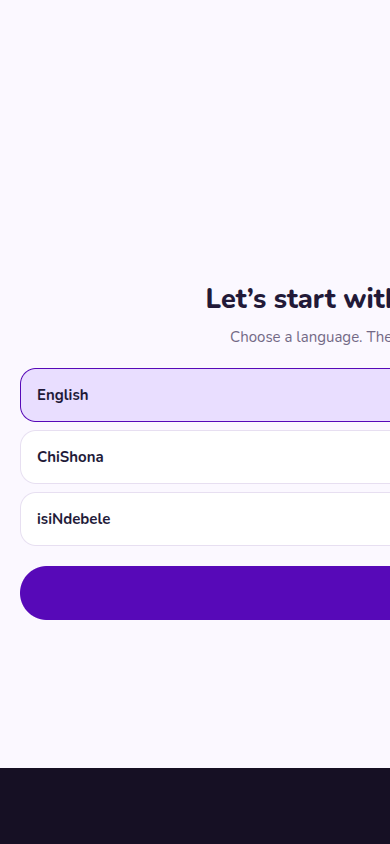
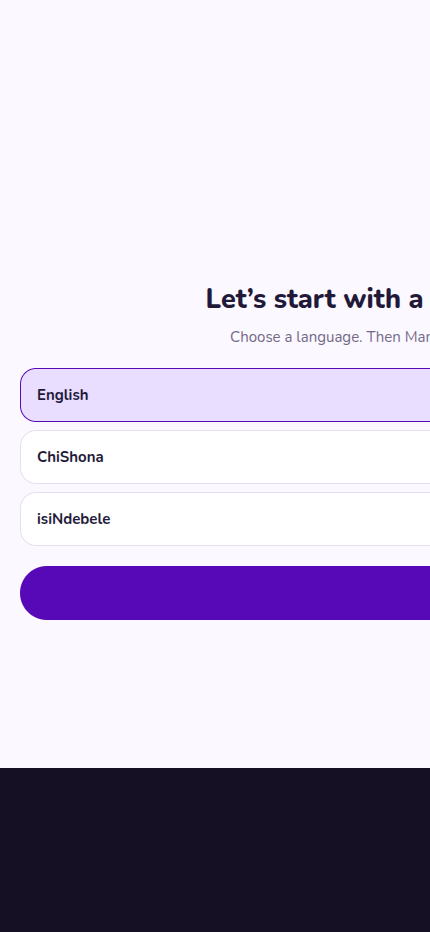
feat: enhance language detection and support for Shona and Ndebele, update responses and messaging

diff --git a/utils/chatbot.ts b/utils/chatbot.ts
@@ -74,13 +74,35 @@ function findLanguagePrefix(message: string) {
   return null;
 }
 
+function detectLanguage(message: string, preferredLanguage: AppLanguage) {
+  const normalized = normalizeMessage(message);
+  const tokens = new Set(normalized.split(' '));
+  const scores = languages.map((language) => ({
+    language,
+    score: chatbotIntents.languageIndicators[language].reduce((score, indicator) => {
+      const matches = indicator.includes(' ')
+        ? ` ${normalized} `.includes(` ${indicator} `)
+        : tokens.has(indicator);
+      return matches ? score + indicator.split(' ').length + 1 : score;
+    }, 0),
+  }));
+  const bestScore = Math.max(...scores.map(({ score }) => score));
+  if (bestScore === 0) return null;
+
+  const bestLanguages = scores
+    .filter(({ score }) => score === bestScore)
+    .map(({ language }) => language);
+  if (bestLanguages.includes(preferredLanguage)) return preferredLanguage;
+  return bestLanguages.length === 1 ? bestLanguages[0] : null;
+}
+
 export function classifyOfflineQuestion(
   message: string,
   preferredLanguage: AppLanguage = 'en',
 ) {
-  const normalized = normalizeMessage(message);
-  const prefixed = findLanguagePrefix(normalized);
-  const query = prefixed?.message ?? normalized;
+  const prefixed = findLanguagePrefix(message.trim().toLowerCase());
+  const query = normalizeMessage(prefixed?.message ?? message);
+  const inferredLanguage = prefixed?.language ?? detectLanguage(query, preferredLanguage);
   const urgentIntent = chatbotIntents.intents.find(
     (intent) => intent.id === 'urgent_symptoms',
   );
@@ -102,7 +124,7 @@ export function classifyOfflineQuestion(
     return {
       intent: 'urgent_symptoms',
       language:
-        prefixed?.language ??
+        inferredLanguage ??
         (urgentLanguages.includes(preferredLanguage) ? preferredLanguage : urgentLanguages[0]),
       message: query,
     };
@@ -112,7 +134,7 @@ export function classifyOfflineQuestion(
   if (queryFrequencies.size === 0) {
     return {
       intent: 'fallback',
-      language: prefixed?.language ?? preferredLanguage,
+      language: inferredLanguage ?? preferredLanguage,
       message: query,
     };
   }
@@ -170,7 +192,7 @@ export function classifyOfflineQuestion(
     (language) => languageScores[language] === bestLanguageScore,
   );
   const detectedLanguage =
-    prefixed?.language ??
+    inferredLanguage ??
     (bestIntentScore === 0
       ? preferredLanguage
       : tiedLanguages.includes(preferredLanguage)
@@ -194,8 +216,7 @@ export function getOfflineReply(
   nextReminder: Reminder | undefined,
   language: AppLanguage,
 ) {
-  const { intent } = classifyOfflineQuestion(message, language);
-  const responseLanguage = language;
+  const { intent, language: responseLanguage } = classifyOfflineQuestion(message, language);
   let responseId = intent;
   const values: Record<string, string> = {};
 

diff --git a/utils/i18n.ts b/utils/i18n.ts
@@ -134,8 +134,8 @@ const translations: Record<Exclude<AppLanguage, 'en'>, Record<string, string>> =
       'Ruzivo rweprofile yako runogara pafoni yako. Kana kupatsanurwa kwemubvunzo neAI yepamhepo kuchishandiswa, mubvunzo wako nenhaurirano dzichangobva kuitika zvinotumirwa kuPerplexity kuburikidza neOpenRouter; mupi webasa anogona kuzvishandisa kana kuzvichengeta. Usaisa mazita kana mashoko ekukuzivisa.',
     'In-app chat works offline. WhatsApp and SMS need mobile network access, and their messages are handled by those providers.':
       'Nhaurirano iri muapp ino inoshanda isina internet. WhatsApp neSMS zvinoda network yefoni, uye mashoko zvinopfuura kumakambani iwayo.',
-    'Online AI is unavailable; this answer used on-device guidance.':
-      'AI iri online haisi kuwanikwa; mhinduro iyi yashandisa mazano ari pafoni.',
+    'Online AI did not return a clear match; this answer used MamaBot guidance.':
+      'AI yepamhepo haina kuwana mubvunzo wakafanana zvakajeka; mhinduro iyi yashandisa mazano aMamaBot ari pafoni.',
     'Online AI classified this question; showing MamaBot guidance.':
       'AI yepamhepo yakaronga mubvunzo uyu; MamaBot iri kuratidza mazano ayo.',
     'Safety-critical guidance was answered locally.':
@@ -593,8 +593,8 @@ const translations: Record<Exclude<AppLanguage, 'en'>, Record<string, string>> =
       'UMamaBot usebenza engelantanethi. Nxa ukhetha i-AI eku-inthanethi, umbuzo wakho uthunyelwa kuseva kaMamaBot le-OpenRouter. Ungafaki ibizo lakho kumbe imininingwane engakwazisa. UMamaBot kasisiyo ingcitshi yezempilakahle.',
     'In-app chat works offline. WhatsApp and SMS need mobile network access, and their messages are handled by those providers.':
       'Ingxoxo eku-app isebenza ingela-inthanethi. I-WhatsApp le-SMS kudinga inethiwekhi yefoni, lemilayezo iphathwa yizinkampani lezo.',
-    'Online AI is unavailable; this answer used on-device guidance.':
-      'I-AI eku-inthanethi ayitholakali; impendulo le isebenzise ulwazi olusefonini.',
+    'Online AI did not return a clear match; this answer used MamaBot guidance.':
+      'I-AI eku-inthanethi yehlulekile ukuthola umbuzo ohambelanayo; impendulo le isebenzise izeluleko zikaMamaBot ezisefonini.',
     'Safety-critical guidance was answered locally.':
       'Ngenxa yokuphepha, isiqondiso esiqakathekileyo siphendulwe yifoni.',
     'Could not reach MamaBot; this answer used on-device guidance.':

diff --git a/app/(tabs)/chat.tsx b/app/(tabs)/chat.tsx
@@ -144,13 +144,17 @@ export default function ChatScreen() {
         : t('MamaBot is replying…'),
     );
     try {
-      let reply = getLocalReply(replyMessage, week, nextReminder, data.profile.language);
+      const isSuggestedPrompt = message !== replyMessage;
+      const localQuestion = isSuggestedPrompt
+        ? `${data.profile.language}: ${replyMessage}`
+        : replyMessage;
+      let reply = getLocalReply(localQuestion, week, nextReminder, data.profile.language);
       if (isOnlineChatConfigured && !isUrgent) {
         try {
           const onlineResult = await getOnlineReply(replyMessage.trim(), data.profile.language, {
             pregnancyWeek: week,
             recentMessages,
-          });
+          }, isSuggestedPrompt);
           if (onlineResult.mode === 'online') {
             reply = onlineResult.reply;
             setStatus(t('Online AI classified this question; showing MamaBot guidance.'));
@@ -158,7 +162,7 @@ export default function ChatScreen() {
             reply = onlineResult.reply;
             setStatus(t('Safety-critical guidance was answered locally.'));
           } else {
-            setStatus(t('Online AI is unavailable; this answer used on-device guidance.'));
+            setStatus(t('Online AI did not return a clear match; this answer used MamaBot guidance.'));
           }
         } catch {
           setStatus(t('Could not reach MamaBot; this answer used on-device guidance.'));

diff --git a/utils/ndebele.ts b/utils/ndebele.ts
@@ -124,8 +124,8 @@ export const ndebeleTranslations: Record<string, string> = {
   'Send by SMS': 'Thumela nge-SMS',
   'Could not open {channel}. Check that it is available on your device.':
     'Yehlulekile ukuvula {channel}. Hlola ukuthi iyatholakala yini efonini yakho.',
-  'Online AI is unavailable; this answer used on-device guidance.':
-    'I-AI eku-inthanethi ayitholakali; impendulo le isebenzise ulwazi olusefonini.',
+  'Online AI did not return a clear match; this answer used MamaBot guidance.':
+    'I-AI eku-inthanethi yehlulekile ukuthola umbuzo ohambelanayo; impendulo le isebenzise izeluleko zikaMamaBot ezisefonini.',
   'Online AI classified this question; showing MamaBot guidance.':
     'I-AI eku-inthanethi ihlukanise umbuzo lo; uMamaBot utshengisa izeluleko zakhe.',
   'Safety-critical guidance was answered locally.':

diff --git a/utils/online-chatbot.ts b/utils/online-chatbot.ts
@@ -20,6 +20,7 @@ export async function getOnlineReply(
   message: string,
   language: AppLanguage,
   context: OnlineChatContext,
+  forceLanguage = false,
 ): Promise<OnlineReply> {
   if (!isOnlineChatConfigured) {
     throw new Error('Online MamaBot service is not configured.');
@@ -34,6 +35,7 @@ export async function getOnlineReply(
       body: JSON.stringify({
         message,
         language,
+        force_language: forceLanguage,
         use_online: true,
         context: {
           pregnancy_week: context.pregnancyWeek,

diff --git a/backend/mamabot/chatbot.py b/backend/mamabot/chatbot.py
@@ -19,7 +19,12 @@ class Intent:
     patterns: dict[str, tuple[str, ...]]
 
 
-def _read_catalog() -> tuple[list[Intent], dict[str, dict[str, str]], dict[str, tuple[str, ...]]]:
+def _read_catalog() -> tuple[
+    list[Intent],
+    dict[str, dict[str, str]],
+    dict[str, tuple[str, ...]],
+    dict[str, tuple[str, ...]],
+]:
     intents_data: dict[str, Any] = json.loads(
         (SHARED_DIRECTORY / "chatbot-intents.json").read_text(encoding="utf-8")
     )
@@ -49,14 +54,18 @@ def _read_catalog() -> tuple[list[Intent], dict[str, dict[str, str]], dict[str, 
         language: tuple(values)
         for language, values in intents_data["languagePrefixes"].items()
     }
+    indicators = {
+        language: tuple(values)
+        for language, values in intents_data["languageIndicators"].items()
+    }
 
     if "fallback" not in responses or any(intent.response not in responses for intent in intents):
         raise ValueError("The MamaBot intent catalog references a missing response.")
 
-    return intents, responses, prefixes
+    return intents, responses, prefixes, indicators
 
 
-INTENTS, RESPONSES, LANGUAGE_PREFIXES = _read_catalog()
+INTENTS, RESPONSES, LANGUAGE_PREFIXES, LANGUAGE_INDICATORS = _read_catalog()
 IntentClassifier = Callable[[str], tuple[str, str] | None]
 _TOKEN_PATTERN = re.compile(r"[a-z0-9]+")
 _BM25_K1 = 1.2
@@ -102,6 +111,34 @@ def _normalize(message: str) -> str:
     return message.strip().casefold()
 
 
+def _detect_language(message: str, preferred_language: str) -> str | None:
+    normalized = " ".join(_TOKEN_PATTERN.findall(_normalize(message)))
+    tokens = set(normalized.split())
+
+    def matches_indicator(indicator: str) -> bool:
+        if " " in indicator:
+            return f" {indicator} " in f" {normalized} "
+        return indicator in tokens
+
+    scores = {
+        language: sum(
+            len(indicator.split()) + 1
+            for indicator in LANGUAGE_INDICATORS[language]
+            if matches_indicator(indicator)
+        )
+        for language in LANGUAGES
+    }
+    best_score = max(scores.values())
+    if best_score == 0:
+        return None
+    best_languages = [
+        language for language, score in scores.items() if score == best_score
+    ]
+    if preferred_language in best_languages:
+        return preferred_language
+    return best_languages[0] if len(best_languages) == 1 else None
+
+
 def classify_question(
     message: str,
     preferred_language: str = "en",
@@ -119,6 +156,7 @@ def classify_question(
         if explicit_language:
             break
 
+    inferred_language = explicit_language or _detect_language(normalized, preferred)
     urgent_intent = next(intent for intent in INTENTS if intent.id == "urgent_symptoms")
     urgent_languages = {
         language: sum(
@@ -130,7 +168,7 @@ def classify_question(
     }
     if any(urgent_languages.values()):
         best_urgent_score = max(urgent_languages.values())
-        detected_language = explicit_language or next(
+        detected_language = inferred_language or next(
             (
                 language
                 for language in (preferred, *LANGUAGES)
@@ -142,7 +180,7 @@ def classify_question(
 
     query_tokens = Counter(_tokens(normalized))
     if not query_tokens:
-        return "fallback", explicit_language or preferred
+        return "fallback", inferred_language or preferred
 
     intent_language_scores: dict[str, dict[str, float]] = {}
     for intent, _order, language, frequencies in _SEARCH_DOCUMENTS:
@@ -187,14 +225,14 @@ def classify_question(
     )
     best_intent_score = max(intent_language_scores[matched_intent.id].values())
     if best_intent_score <= 0:
-        return "fallback", explicit_language or preferred
+        return "fallback", inferred_language or preferred
 
     language_scores = intent_language_scores[matched_intent.id]
     best_language_score = max(language_scores.values())
     tied_languages = [
         language for language, score in language_scores.items() if score == best_language_score
     ]
-    detected_language = explicit_language or (
+    detected_language = inferred_language or (
         preferred if preferred in tied_languages else tied_languages[0]
     )
     return matched_intent.id, detected_language
@@ -256,7 +294,7 @@ def answer_question_with_mode(
         pregnancy_week = None
     if force_language and preferred_language in LANGUAGES:
         local_language = preferred_language
-    if local_intent in {"urgent_symptoms", "danger_signs"}:
+    if local_intent == "urgent_symptoms":
         return _render_response(local_intent, local_language, pregnancy_week), "safety"
 
     online_classification = classifier(message) if classifier else None

diff --git a/backend/tests/test_chatbot.py b/backend/tests/test_chatbot.py
@@ -46,6 +46,23 @@ class ChatbotTests(unittest.TestCase):
             ("antenatal_care", "en"),
         )
 
+    def test_shona_language_and_nutrition_are_detected_without_app_preference(self) -> None:
+        for question in (
+            "Ndinofanira kudyei?",
+            "Ndinoda rubatsiro nezvekudya",
+        ):
+            with self.subTest(question=question):
+                self.assertEqual(classify_question(question, "en"), ("nutrition", "sn"))
+                reply, mode = answer_question_with_mode(question, "en")
+                self.assertEqual(mode, "offline")
+                self.assertIn("Edza kudya", reply)
+
+    def test_nonurgent_general_help_does_not_use_urgent_safety_response(self) -> None:
+        reply, mode = answer_question_with_mode("Ndinoda rubatsiro nezvekudya", "en")
+        self.assertEqual(mode, "offline")
+        self.assertIn("Edza kudya", reply)
+        self.assertNotIn("Usamirire imwe meseji", reply)
+
     def test_english_danger_sign_question(self) -> None:
         self.assertEqual(classify_question("Which warning signs need urgent care?"), ("danger_signs", "en"))
         reply = answer_question("Which warning signs need urgent care?")

diff --git a/backend/tests/test_webhooks.py b/backend/tests/test_webhooks.py
@@ -81,13 +81,27 @@ class WebhookTests(unittest.TestCase):
         self.assertIn("around week 6", response.json["reply"])
         self.assertIn("first trimester", response.json["reply"])
 
-    def test_app_chat_api_uses_selected_language_for_english_question(self) -> None:
+    def test_app_chat_api_uses_question_language_over_selected_language(self) -> None:
         response = self.client.post(
             "/api/chat",
             json={
                 "message": "What foods should I eat?",
                 "language": "sn",
                 "use_online": True,
+            },
+        )
+
+        self.assertEqual(response.status_code, 200)
+        self.assertEqual(response.json["mode"], "offline")
+        self.assertIn("Aim for a varied diet", response.json["reply"])
+
+    def test_app_chat_api_detects_shona_when_selected_language_is_english(self) -> None:
+        response = self.client.post(
+            "/api/chat",
+            json={
+                "message": "Ndinofanira kudyei?",
+                "language": "en",
+                "use_online": False,
             },
         )
 

diff --git a/backend/app.py b/backend/app.py
@@ -111,6 +111,9 @@ def create_app(test_config: Mapping[str, object] | None = None) -> Flask:
         use_online = payload.get("use_online", False)
         if not isinstance(use_online, bool):
             return jsonify(error="use_online must be a boolean."), 400
+        force_language = payload.get("force_language", False)
+        if not isinstance(force_language, bool):
+            return jsonify(error="force_language must be a boolean."), 400
 
         context = payload.get("context", {})
         if not isinstance(context, dict):
@@ -147,7 +150,7 @@ def create_app(test_config: Mapping[str, object] | None = None) -> Flask:
                 preferred_language=language,
                 context=classification_context,
             ),
-            force_language=True,
+            force_language=force_language,
             context=classification_context,
         )
         return jsonify(reply=reply, mode=mode)
